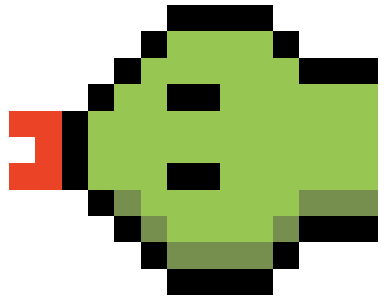
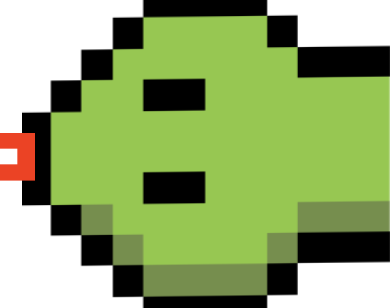
redesigned snake sprites to fit

diff --git a/frontend/src/app/snake/snakeGame.jsx b/frontend/src/app/snake/snakeGame.jsx
@@ -3,6 +3,11 @@
 import { useState, useEffect, useRef } from 'react';
 import axios from 'axios';
 
+import headImg from "../../../public/images/snake/snake-head.png";
+import bodyImg from "../../../public/images/snake/snake-body.png";
+import tailImg from "../../../public/images/snake/snake-tail.png";
+import turnImg from "../../../public/images/snake/snake-turn.png";
+
 // Constants
 const BOARDBACKGROUND = 'white';
 const SNAKECOLOR = 'lightgreen';
@@ -29,6 +34,20 @@ export default function SnakeGame() {
   const runningRef = useRef(running);
   const velocityRef = useRef(velocity);
   const foodRef = useRef(food);
+
+  const imageRefs = useRef({
+    head: new Image(),
+    tail: new Image(),
+    body: new Image(),
+    turn: new Image()
+  });
+
+  useEffect(() => {
+    imageRefs.current.head.src = headImg.src;
+    imageRefs.current.tail.src = tailImg.src;
+    imageRefs.current.body.src = bodyImg.src;
+    imageRefs.current.turn.src = turnImg.src;
+  }, []);
 
   useEffect(() => {
     foodRef.current = food;
@@ -276,12 +295,80 @@ export default function SnakeGame() {
   function drawSnake() {
     const ctx = ctxRef.current;
     if (!ctx) return;
-    ctx.fillStyle = SNAKECOLOR;
-    ctx.strokeStyle = SNAKEBORDER;
-    snake.forEach(snakePart => {
-      ctx.fillRect(snakePart.x, snakePart.y, UNITSIZE, UNITSIZE);
-      ctx.strokeRect(snakePart.x, snakePart.y, UNITSIZE, UNITSIZE);
+
+    snake.forEach((part, index) => {
+      const isHead = index === 0;
+      const isTail = index === snake.length - 1;
+      const x = part.x;
+      const y = part.y;
+
+      let img;
+      let angle = 0;
+
+      if (isHead) {
+        img = imageRefs.current.head;
+        if (snake.length > 1) {
+          angle = getRotationAngle(part, snake[1]);
+        }
+      } else if (isTail) {
+        img = img = imageRefs.current.tail;
+        if (snake.length > 1) {
+          angle = getRotationAngle(snake[snake.length - 2], part);
+        }
+      } else {
+        const prev = snake[index - 1];
+        const next = snake[index + 1];
+        const isTurn = (prev.x !== next.x) && (prev.y !== next.y);
+
+        if (isTurn) {
+          img = imageRefs.current.turn;
+          angle = getTurnAngle(prev, part, next);
+        } else {
+          img = imageRefs.current.body;
+          angle = getRotationAngle(prev, part);
+        }
+      }
+
+      const hasImage = img.complete && img.naturalWidth > 0;
+
+      if (hasImage) {
+        ctx.save();
+        ctx.translate(x + UNITSIZE / 2, y + UNITSIZE / 2);
+        ctx.rotate(angle);
+        ctx.drawImage(img, -UNITSIZE / 2, -UNITSIZE / 2, UNITSIZE, UNITSIZE);
+        ctx.restore();
+      } else {
+        ctx.fillStyle = isHead ? 'darkgreen' : SNAKECOLOR;
+        ctx.fillRect(x, y, UNITSIZE, UNITSIZE);
+        ctx.strokeStyle = SNAKEBORDER;
+        ctx.strokeRect(x, y, UNITSIZE, UNITSIZE);
+      }
     });
+  }
+
+  function getTurnAngle(prev, current, next) {
+    const fromPrev = { x: current.x - prev.x, y: current.y - prev.y };
+    const toNext = { x: next.x - current.x, y: next.y - current.y };
+    if (fromPrev.x === 1 && toNext.y === 1) return 0;
+    if (fromPrev.y === 1 && toNext.x === -1) return Math.PI / 2; 
+    if (fromPrev.x === -1 && toNext.y === -1) return Math.PI; 
+    if (fromPrev.y === -1 && toNext.x === 1) return 3 * Math.PI / 2; 
+
+    if (toNext.x === 1 && fromPrev.y === 1) return 0;
+    if (toNext.y === 1 && fromPrev.x === -1) return Math.PI / 2;
+    if (toNext.x === -1 && fromPrev.y === -1) return Math.PI;
+    if (toNext.y === -1 && fromPrev.x === 1) return 3 * Math.PI / 2;
+    return 0;
+  }
+
+  function getRotationAngle(from, to) {
+    const dx = to.x - from.x;
+    const dy = to.y - from.y;
+    if (dx === UNITSIZE) return 0;
+    if (dy === UNITSIZE) return Math.PI / 2;
+    if (dx === -UNITSIZE) return Math.PI;
+    if (dy === -UNITSIZE) return -Math.PI / 2;
+    return 0;
   }
 
   function drawGridBackground() {

diff --git a/frontend/src/app/snake/page.jsx b/frontend/src/app/snake/page.jsx
@@ -1,7 +1,6 @@
 'use client';
-import Image from 'next/image'
 
-/* import { useContext } from 'react';
+import { useContext } from 'react';
 import { AuthContext } from '@/components/AuthContext';
 import Navbar from '../Navbar';
 import LeaderboardModal from '../Leaderboard';
@@ -33,18 +32,6 @@ export default function Snake() {
           <h1 className="text-2xl font-semibold">Please log in to continue.</h1>
         </div>
       )}
-    </div>
-  );
-} */
-
-// import headImg from "@/app/snake/assets/snake-head.png";
-import headImg from "../../../public/images/snake/snake-head.png";
-
-export default function TestImage() {
-  return (
-    <div>
-      <h1>Test Snake Head</h1>
-      <Image src={headImg} alt="Snake Head" />
     </div>
   );
 }
